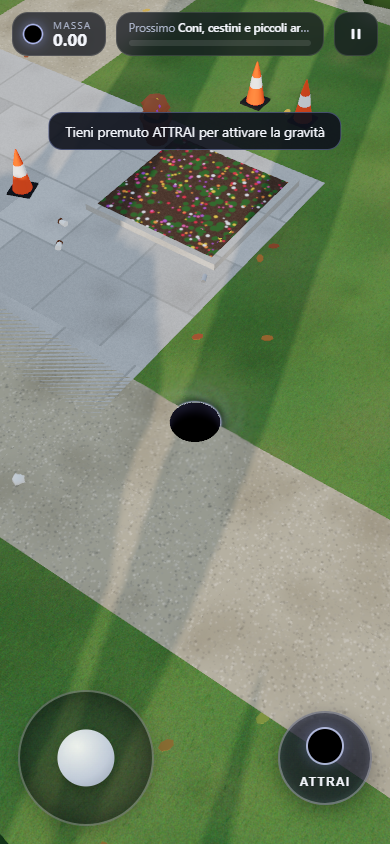
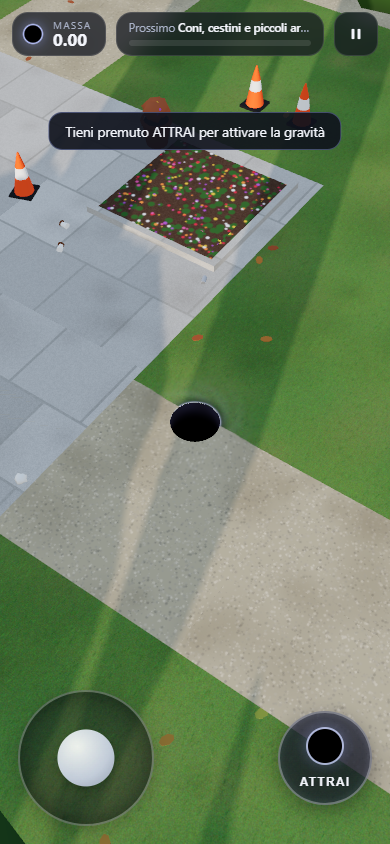
Schermo intero su iPhone, skyline lontano, fix premi missioni

diff --git a/src/earth/main.js b/src/earth/main.js
@@ -217,11 +217,29 @@ class Game {
 
   layoutControls() {
     if (!this.input) return { joy: null, btn: { x: 0, y: 0, w: 0, h: 0 } };
-    return this.input.layout(this.settings, window.innerWidth, window.innerHeight, this.safeArea());
+    return this.input.layout(this.settings, this.vw || window.innerWidth, this.vh || window.innerHeight, this.safeArea());
+  }
+
+  // iOS home-screen apps with a translucent status bar report a viewport that is
+  // shorter than the screen (a black band at the bottom): use the full screen.
+  viewport() {
+    let w = window.innerWidth, h = window.innerHeight;
+    const standalone = navigator.standalone || window.matchMedia?.('(display-mode: standalone)').matches;
+    if (standalone && /iPhone|iPad|iPod/.test(navigator.userAgent)) {
+      const portrait = h >= w;
+      const sh = portrait ? Math.max(screen.width, screen.height) : Math.min(screen.width, screen.height);
+      const sw = portrait ? Math.min(screen.width, screen.height) : Math.max(screen.width, screen.height);
+      if (sh > h && sh - h < 120) h = sh;
+      if (sw > w && sw - w < 120) w = sw;
+    }
+    const app = document.getElementById('app');
+    app.style.width = `${w}px`; app.style.height = `${h}px`;
+    this.vw = w; this.vh = h;
+    return { w, h };
   }
 
   resize() {
-    const w = window.innerWidth, h = window.innerHeight;
+    const { w, h } = this.viewport();
     const pr = (this.basePR || 1) * this.dynPR;
     this.renderer.setPixelRatio(pr);
     this.renderer.setSize(w, h, false);
@@ -234,7 +252,7 @@ class Game {
 
   // ---- flow -------------------------------------------------------------------
   boot() {
-    this.rig.snap(this.hole, window.innerWidth / window.innerHeight);
+    this.rig.snap(this.hole, this.vw / this.vh);
     this.world.setView(this.hole.x, this.hole.z, this.rig.dist, this.effectiveQuality());
     this.world.syncAll();
     for (let k = 0; k < 30; k++) this.traffic.spawn(true);
@@ -307,7 +325,7 @@ class Game {
     rebase(s.x, s.z);
     this.world.onRebase();
     this.tierIndex = 1;
-    this.rig.snap(this.hole, window.innerWidth / window.innerHeight);
+    this.rig.snap(this.hole, this.vw / this.vh);
     this.world.setView(this.hole.x, this.hole.z, this.rig.dist, this.effectiveQuality());
     this.world.syncAll();
     for (let k = 0; k < 30; k++) this.traffic.spawn(true);
@@ -366,7 +384,7 @@ class Game {
     for (const m of activeMissions(s.missions, s.stats.byKind, this.hole.mass)) {
       if (m.have < m.n) continue;
       s.missions.push(m.id);
-      const bonus = missionReward(this.hole.mass);
+      const bonus = missionReward(this.hole.mass, m);
       this.hole.mass += bonus;
       this.ui.toast(`Missione completata: ${m.text}`, 3.5);
       this.audio.chime();
@@ -453,8 +471,8 @@ class Game {
   guideAngle(t) {
     _hp.set(t.x - ORIGIN.x, 0, t.z - ORIGIN.z).project(this.camera);
     _hp2.set(this.hole.x - ORIGIN.x, this.hole.y, this.hole.z - ORIGIN.z).project(this.camera);
-    const dx = (_hp.x - _hp2.x) * window.innerWidth, dy = -(_hp.y - _hp2.y) * window.innerHeight;
-    return { angle: Math.atan2(dy, dx), cx: (_hp2.x * 0.5 + 0.5) * window.innerWidth, cy: (-_hp2.y * 0.5 + 0.5) * window.innerHeight };
+    const dx = (_hp.x - _hp2.x) * this.vw, dy = -(_hp.y - _hp2.y) * this.vh;
+    return { angle: Math.atan2(dy, dx), cx: (_hp2.x * 0.5 + 0.5) * this.vw, cy: (-_hp2.y * 0.5 + 0.5) * this.vh };
   }
 
   // ---- main loop ------------------------------------------------------------
@@ -511,12 +529,13 @@ class Game {
       this.traffic.onRebase();
     }
 
-    const aspect = window.innerWidth / window.innerHeight;
+    const aspect = this.vw / this.vh;
     this.rig.update(dt, hole, aspect, this.state === 'menu');
     this.world.setView(hole.x, hole.z, this.rig.dist, this.effectiveQuality());
     let tp = performance.now();
     const lap = k => { const n = performance.now(); this.prof[k] = Math.max(this.prof[k] || 0, n - tp); tp = n; };
-    this.world.update(dt, this.state === 'play' ? 5 : 8); lap('world');
+    this.world.update(dt, this.state === 'play' ? 5 : 8);
+    this.world.updateMacro(this.rig.dist); lap('world');
 
     if (sim) {
       this.traffic.update(simDt); lap('traffic');

diff --git a/src/earth/world.js b/src/earth/world.js
@@ -2,7 +2,8 @@
 // away, and an infinite procedural ground plane beyond. Keeps the registry of
 // static entities (props, parked vehicles, buildings) and their eaten state.
 import * as THREE from 'three';
-import { C, generateChunk, chunkKey, blockBounds, roadWidth, isAvenue, CURB, SIDEWALK } from './citygen.js';
+import { C, generateChunk, chunkKey, blockBounds, roadWidth, isAvenue, CURB, SIDEWALK, zoneOf } from './citygen.js';
+import { hash2 } from './rng.js';
 import { KINDS } from './config.js';
 import { buildBuilding, liteColor } from './buildings.js';
 import { modelKey } from './models.js';
@@ -81,6 +82,11 @@ export class World {
     this.liteGroundPool = makeSimplePool(this.scene, new THREE.PlaneGeometry(1, 1).rotateX(-Math.PI / 2), gm, 1024);
     this.liteGroundPool.mesh.castShadow = false;
     this.liteGroundPool.mesh.renderOrder = -4;
+    // Very far away (huge hole): a cheap skyline, a few boxes per block chosen
+    // from the zone, so the horizon never looks like a flat map.
+    this.macroPool = makeSimplePool(this.scene, boxGeo, m, 4096);
+    this.macroPool.mesh.castShadow = false;
+    this.macroKey = '';
   }
 
   makeGroundPlane() {
@@ -618,6 +624,50 @@ bool bhAve(float k) { float m = mod(k, 4.0); return m < 0.5 || (k >= -1.0 && k <
     }
   }
 
+  updateMacro(camDist) {
+    const [ci, cj] = this.center;
+    const inner = this.liteR + 0.5;
+    const outer = camDist < 500 ? 0 : Math.min(40, Math.ceil((camDist * 2.2) / C));
+    const key = `${ci},${cj},${this.liteR},${outer},${ORIGIN.version}`;
+    if (key === this.macroKey) return;
+    this.macroKey = key;
+    const P = this.macroPool;
+    P.free.length = 0; P.top = 0;
+    if (outer <= inner) { P.mesh.count = 0; return; }
+    const M = _m, col = _c;
+    const put = (x, z, w, d, h, c) => {
+      const s = P.alloc();
+      M.makeScale(w, h, d).setPosition(x - ORIGIN.x, CURB, z - ORIGIN.z);
+      P.set(s, M);
+      P.color(s, col.set(c));
+    };
+    for (let i = ci - outer; i <= ci + outer; i++) for (let j = cj - outer; j <= cj + outer; j++) {
+      const dd = Math.hypot(i - ci, j - cj);
+      if (dd <= inner || dd > outer) continue;
+      const k = chunkKey(i, j);
+      if (this.g.save.eaten.get(k)?.size) continue; // already swallowed: leave it empty
+      const zone = zoneOf(i, j);
+      if (zone === 'park') continue;
+      const b = blockBounds(i, j);
+      const x0 = b.x0 + SIDEWALK + 1, x1 = b.x1 - SIDEWALK - 1, z0 = b.z0 + SIDEWALK + 1, z1 = b.z1 - SIDEWALK - 1;
+      const cx = (x0 + x1) / 2, cz = (z0 + z1) / 2, W = x1 - x0, D = z1 - z0;
+      const hsh = q => hash2(i, j, q);
+      if (zone === 'cbd') {
+        put(cx, cz, W * 0.55, D * 0.55, 60 + hsh(1) * 100, hsh(2) < 0.5 ? 0x7fa3b8 : 0x3e4c56);
+      } else if (zone === 'commercial') {
+        put(cx, cz + D * 0.2, W * 0.8, D * 0.5, 8 + hsh(1) * 2, 0xe4e2dc);
+      } else {
+        const tall = zone === 'downtown';
+        for (let q = 0; q < 4; q++) {
+          const qx = q % 2 ? 0.25 : -0.25, qz = q < 2 ? -0.25 : 0.25;
+          const h = tall ? 14 + hsh(q + 3) * 12 : 6 + hsh(q + 3) * 4;
+          put(cx + qx * W, cz + qz * D, W * 0.36, D * 0.36, h, tall ? 0xe8d6bc : hsh(q + 9) < 0.5 ? 0xe9d9c0 : 0xd9c3a7);
+        }
+      }
+    }
+    P.mesh.count = P.top;
+  }
+
   updatePlane(cx, cz, size) {
     const snap = C;
     const px = Math.round(cx / snap) * snap, pz = Math.round(cz / snap) * snap;
@@ -626,7 +676,7 @@ bool bhAve(float k) { float m = mod(k, 4.0); return m < 0.5 || (k >= -1.0 && k <
     this.planeUniforms.uOriginK.value.set(ORIGIN.x / C, ORIGIN.z / C);
   }
 
-  flush() { this.litePool.flush(); this.liteTreePool.flush(); this.liteGroundPool.flush(); }
+  flush() { this.litePool.flush(); this.liteTreePool.flush(); this.liteGroundPool.flush(); this.macroPool.flush(); }
 
   stats() {
     let full = 0, lite = 0, ents = 0;

diff --git a/src/earth/missions.js b/src/earth/missions.js
@@ -1,6 +1,6 @@
 // Optional goals that give direction without pressure (no timers, no failure).
 // Pure JS (testable in Node).
-import { KINDS, massForRadius, progressInfo } from './config.js';
+import { KINDS, massForRadius, progressInfo, tier } from './config.js';
 
 const CARS = ['car_city', 'car_sedan', 'car_suv'];
 const TREES = ['tree', 'tree_small', 'tree_pine', 'tree_cypress', 'tree_birch'];
@@ -53,11 +53,13 @@ export function activeMissions(done, byKind, mass, max = 3) {
   return out;
 }
 
-// Reward: a small push toward the next tier (8% of the mass the tier needs).
-export function missionReward(mass) {
-  const p = progressInfo(mass);
-  const span = massForRadius(p.next.r) - (p.current.index === 1 ? 0 : massForRadius(p.current.r));
-  return Math.max(0.05, span * 0.08);
+// Reward: a small push sized on the mission's own tier (8% of that tier's mass
+// span), never more than 3% of the current mass, so easy early missions
+// completed late cannot inflate a big hole.
+export function missionReward(mass, mission) {
+  const t = mission?.tier ?? progressInfo(mass).current.index;
+  const span = massForRadius(tier(t + 1).r) - (t === 1 ? 0 : massForRadius(tier(t).r));
+  return Math.max(0.05, Math.min(span * 0.08, Math.max(0.05, mass * 0.03)));
 }
 
 // Early boost: the first minutes are faster, then the normal slow pace.

diff --git a/src/earth/ui.js b/src/earth/ui.js
@@ -77,7 +77,7 @@ export class UI {
     ghost.addEventListener('pointerdown', e => { drag = { id: e.pointerId }; ghost.setPointerCapture(e.pointerId); e.preventDefault(); });
     ghost.addEventListener('pointermove', e => {
       if (!drag || e.pointerId !== drag.id) return;
-      const vw = window.innerWidth, vh = window.innerHeight;
+      const vw = g.vw, vh = g.vh;
       g.applySettings({ ...g.settings, control: 'C', joyX: e.clientX / vw, joyY: e.clientY / vh }, true);
       this.layoutEditor();
     });
@@ -179,7 +179,7 @@ export class UI {
   setGuide(g) {
     const el = this.el.guide;
     if (!g) { el.classList.remove('show'); return; }
-    const R = Math.min(window.innerWidth, window.innerHeight) * 0.3;
+    const R = Math.min(this.g.vw, this.g.vh) * 0.3;
     const x = g.cx + Math.cos(g.angle) * R, y = g.cy + Math.sin(g.angle) * R;
     el.style.transform = `translate(${x - 19}px, ${y - 19}px) rotate(${g.angle}rad)`;
     el.classList.add('show');
